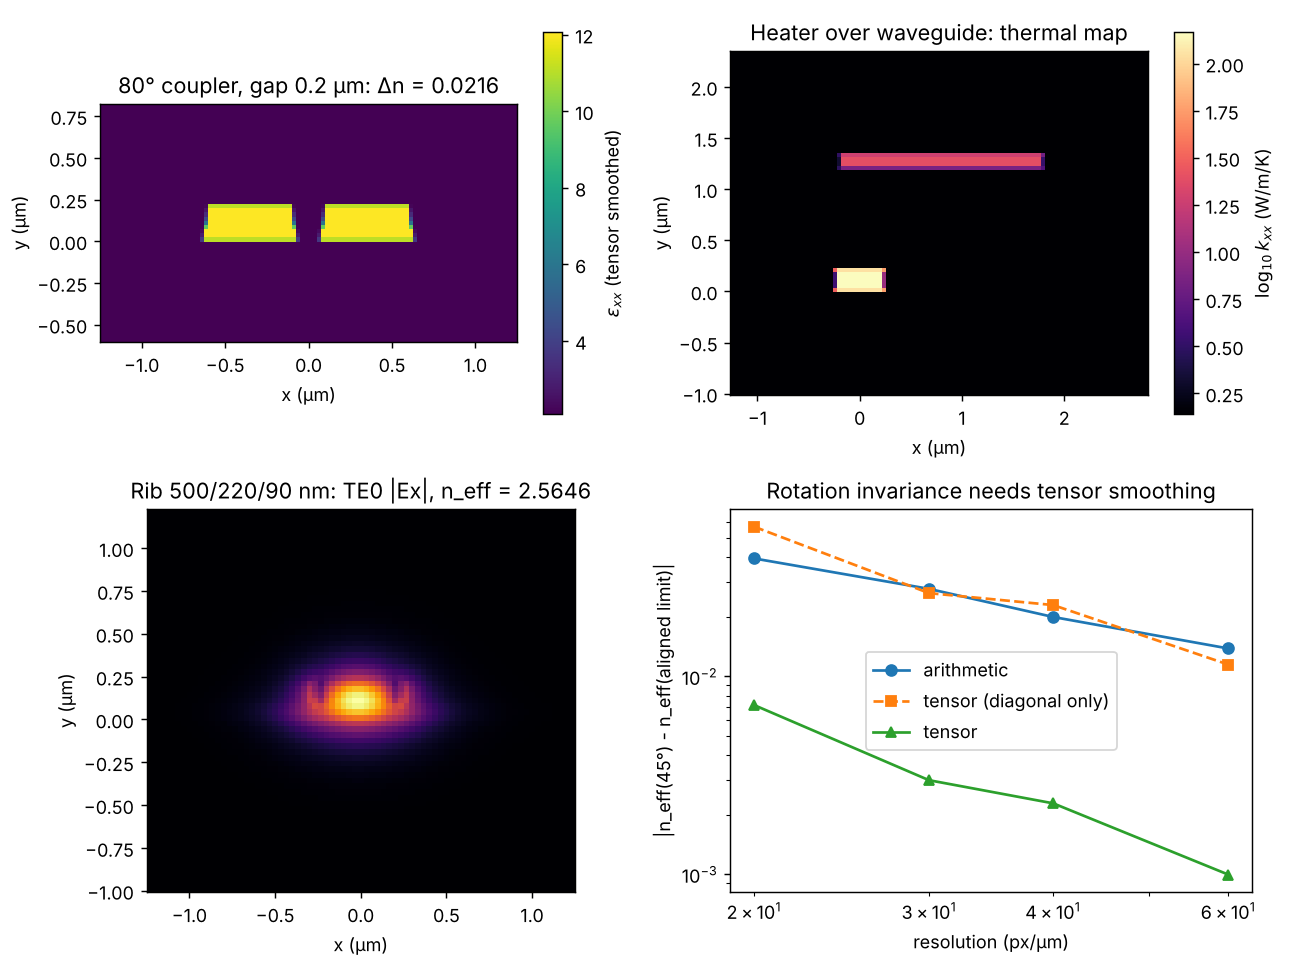
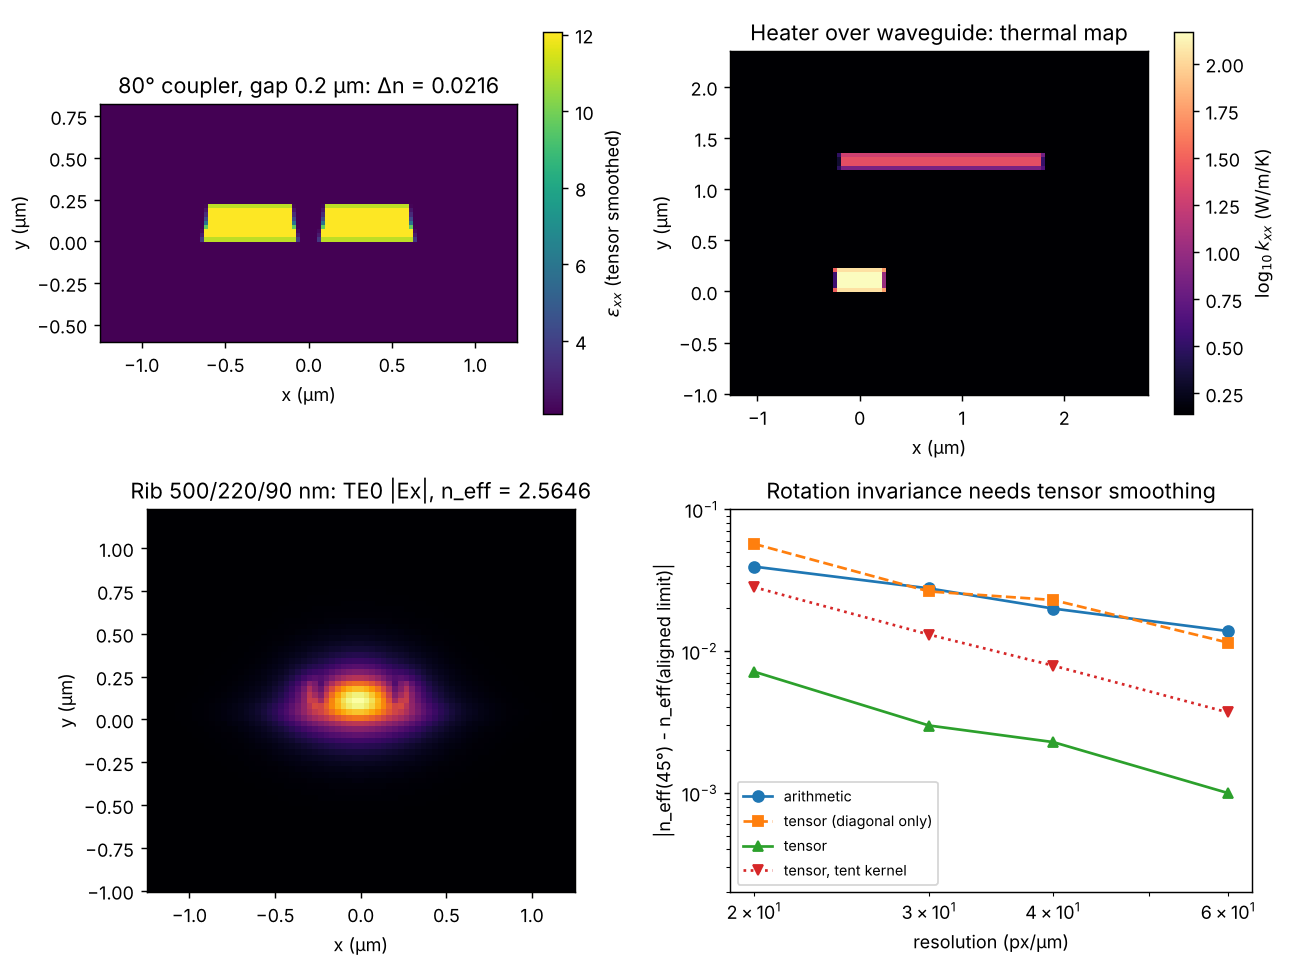
WIP(xsection): docs page, kernel docs, example tent curve, blockwise simplicity check
Claude-Session: https://claude.ai/code/session_01GrsKz23QG2JZsuq6hsmJWw

diff --git a/src/photonix/xsection/modes.py b/src/photonix/xsection/modes.py
@@ -26,24 +26,39 @@ area average, which is exactly the operator of
 ``n_eff``); unlike that solver this one also accepts anisotropic and lossy
 (complex) media.
 
-Evidence (``tests/test_xsection.py``; numbers for a 500 x 200 nm Si/SiO2 core):
+Each sample's average uses the ``kernel`` of :meth:`XSection.rasterize`:
+``"box"`` (the cell centred on the component, default) or ``"tent"`` (the
+bilinear hat reaching the neighbouring samples).
+
+Evidence (``tests/test_xsection.py``; numbers for a 500 x 200 nm Si/SiO2 core
+unless stated):
 
 * rotation invariance -- the continuum ``n_eff`` of a rotated core does not
-  depend on the angle.  At 45 deg and 40 / 80 px/um the tensor error against
-  the axis-aligned Richardson limit is 2.3e-3 / 4.0e-4 (order ~2.5) versus
+  depend on the angle.  At 45 deg and 40 / 80 px/um the tensor (box) error
+  against the axis-aligned Richardson limit 2.36506 is 2.3e-3 / 4.0e-4 versus
   2.0e-2 / 1.0e-2 for arithmetic smoothing (first order);
 * on grids whose lines contain the horizontal faces, rectangle and trapezoid
   converge with observed order ~2 (tensor) and both schemes extrapolate to the
   same limit within their GCI;
+* tent kernel on ordinary (unaligned) grids: :func:`n_eff_convergence` over
+  30/40/60 px/um recovers 2.36506 to 2.2e-4 (axis-aligned) and 2.9e-4
+  (45 deg), inside its 3.5e-3 / 4.2e-3 error bounds; sub-cell shifts of an
+  80-deg, 220 nm trapezoid move ``n_eff`` by about 4e-4 at 40 px/um (box: 5.6e-3);
+* coupler supermode splitting reproduces ``SOI_STRIP_SPLITTING_FIT`` within
+  its ~2 % trust band at 60 px/um (gaps 0.1-0.4 um);
 * the sparse operator equals the matrix-free one used by the adjoint, and the
-  arithmetic path reproduces the legacy solver to rounding.
+  arithmetic/box path reproduces the legacy solver to rounding.
 
-Limitation: second-order *tangential* interface errors remain and depend on
-where a horizontal face cuts its cell (the same is true of the 1-D TE slab
-with cell-averaged ``eps``), so ``n_eff`` still wiggles at the ~5e-3 level at
-40 px/um for sub-cell vertical shifts of a 220 nm core; converge, or align the
-grid with horizontal faces, before quoting digits.  These are convergence
-(level 1) and exact-symmetry checks, not measurements.
+Limitation: with the default box kernel the second-order interface error
+depends on where a horizontal or vertical face cuts its cell (as for the 1-D
+TE slab with cell-averaged ``eps``): ``n_eff`` of a 220 nm core moves by
+~5e-3 at 40 px/um under sub-cell vertical shifts, and refinement sequences on
+ordinary grids are often not monotone, so a Richardson estimate built from
+them is unreliable.  The tent kernel removes that dependence but has a
+larger, systematic error at one resolution (about -6e-3 at 40 px/um for the
+220 nm strip, about 2x-3x the typical box error): use it with
+:func:`n_eff_convergence`.  These are convergence (level 1) and
+exact-symmetry checks, not measurements.
 """
 from __future__ import annotations
 
@@ -327,7 +342,7 @@ def solve_modes(
         horizontal/vertical faces cut their cells (``n_eff`` of a 220 nm core
         moves by ~5e-3 at 40 px/um under sub-cell shifts), so refinement
         sequences are not monotone.  ``"tent"`` makes the error smooth in the
-        grid spacing (~3e-4 spread) at the price of a larger, systematic
+        grid spacing (~4e-4 shift spread) at the price of a larger, systematic
         ``O(h**2)`` bias -- use it for Richardson extrapolation
         (:func:`n_eff_convergence`).
 

diff --git a/examples/xsection_multiphysics.py b/examples/xsection_multiphysics.py
@@ -5,7 +5,9 @@
 * the same kind of geometry object giving a thermal-conductivity map for a heater
   over a waveguide (illustrative bulk property values, not process data);
 * the rotation-invariance check that motivates tensor smoothing: the n_eff of a
-  45-degree-rotated core must equal that of the axis-aligned one.
+  45-degree-rotated core must equal that of the axis-aligned one.  The tent
+  kernel has the larger error at each resolution but converges smoothly, so its
+  Richardson estimate (printed) lands on the aligned-core limit.
 
 Run:  python examples/xsection_multiphysics.py
 Saves: examples/outputs/xsection_multiphysics.png
@@ -67,16 +69,22 @@ def main() -> None:
     limit = (4 * n80 - n40) / 3
     rot = xs.XSection([xs.rect(-0.25, 0.25, -0.1, 0.1, 3.4757).rotated(45.0)], background=1.444)
     ress = [20, 30, 40, 60]
-    for sm, kw, style in (("arithmetic", {}, "o-"), ("tensor", {"offdiagonal": False}, "s--"),
-                          ("tensor", {}, "^-")):
+    for sm, kw, style, label in (("arithmetic", {}, "o-", "arithmetic"),
+                                 ("tensor", {"offdiagonal": False}, "s--", "tensor (diagonal only)"),
+                                 ("tensor", {}, "^-", "tensor"),
+                                 ("tensor", {"kernel": "tent"}, "v:", "tensor, tent kernel")):
         err = [abs(xs.n_eff(rot, resolution=r, margin=1.0, smoothing=sm, **kw) - limit) for r in ress]
-        label = sm + (" (diagonal only)" if kw else "")
         axes[1, 1].loglog(ress, err, style, label=label)
         print(f"45-deg core, {label:26s}: |n_eff - limit| =", " ".join(f"{e:.1e}" for e in err))
+    # The tent kernel converges smoothly, so its Richardson estimate is trustworthy.
+    study = xs.n_eff_convergence(rot, (30, 40, 60), margin=1.0)
+    print(f"45-deg core, tent Richardson (30/40/60): {float(study.extrapolated):.5f} "
+          f"+/- {study.estimated_absolute_error:.1e} (aligned-core limit {limit:.5f})")
     axes[1, 1].set_xlabel("resolution (px/µm)")
     axes[1, 1].set_ylabel("|n_eff(45°) - n_eff(aligned limit)|")
     axes[1, 1].set_title("Rotation invariance needs tensor smoothing")
-    axes[1, 1].legend()
+    axes[1, 1].set_ylim(2e-4, 1e-1)
+    axes[1, 1].legend(loc="lower left", fontsize=8)
     for ax in axes.flat[:3]:
         ax.set_xlabel("x (µm)")
         ax.set_ylabel("y (µm)")

diff --git a/src/photonix/xsection/raster.py b/src/photonix/xsection/raster.py
@@ -48,6 +48,33 @@ weighted by the property jump across each interface.  The smoothed tensor uses
 Kottke's ``tau`` average in the local (normal, tangent, z) frame, which reduces
 for isotropic media to ``P <eps^-1>^-1 + (1 - P) <eps>`` with ``P = n n^T`` and
 is the exact homogenization of a laminate (series across, parallel along).
+
+Averaging kernels
+-----------------
+``kernel="box"`` averages over each cell (the above).  ``kernel="tent"``
+replaces the cell by the bilinear hat function ``K`` centred on the cell centre
+and reaching the neighbouring centres: the same sweep, run on the grid whose
+lines are the cell centres (:func:`_tent_dual_grid`), returns the exact moments
+``int (1, xi, eta, xi*eta) dA`` of every visible region per dual cell (Simpson's
+rule is exact for the cubic integrands between the points where an edge meets
+the column lines), and the hats are combinations of those moments.  The normal
+is the direction of ``int K grad(q) dA = -int q grad(K) dA``, again exact.
+
+Why a tent: the three-point second difference is exactly the tent average of
+the second derivative, ``(u(y+h) - 2u(y) + u(y-h)) / h**2 = <u''>_K``.  If
+``eps`` is averaged with the same kernel, the local error of the discrete
+Helmholtz operator at an interface has no ``O(1)`` term and its ``O(h)`` term
+(the first moment of ``eps`` inside ``K``) sums to zero over neighbouring
+samples, because ``K`` reproduces linear functions.  What remains is the
+smooth ``O(h**2)`` error of the stencil itself, independent of where the
+interface cuts its cell.  With the box kernel an ``O(h**2)`` term that
+oscillates with that position survives (zero-sum but not zero-first-moment
+weights); averaged over positions it happens to cancel part of the stencil
+error, so the box is usually *more* accurate at a single resolution and the
+tent is the one that converges monotonically.  This is our analysis of the
+standard scheme (the hat is the lumped-mass weight of linear finite elements),
+verified numerically in ``tests/test_xsection.py``; it is not a published
+recipe.
 """
 from __future__ import annotations
 

diff --git a/tests/test_xsection.py b/tests/test_xsection.py
@@ -529,19 +529,21 @@ def test_lossy_heater_gives_decaying_complex_index():
     assert 2.3 < m_near.neff0 < 2.6 and m_near.te_fraction[0] > 0.9
 
 
-@pytest.mark.parametrize("gap", [0.1, 0.2, 0.3, 0.4])
-def test_coupler_splitting_reproduces_soi_fit(gap):
+@pytest.mark.parametrize(("gap", "kernel"), [(0.1, "box"), (0.2, "box"), (0.3, "box"), (0.4, "box"),
+                                             (0.2, "tent")])
+def test_coupler_splitting_reproduces_soi_fit(gap, kernel):
     """Even/odd TE splitting of library.coupler vs SOI_STRIP_SPLITTING_FIT.
 
     The fit declares a 1.3 % residual against its 80 px/um legacy solves plus a
     +/-1.3 % resolution spread of those solves, so it is trusted to ~2 % of the
     continuum.  Tensor smoothing at 60 px/um lands within 1.31 % at every gap
-    (gap 0.2 is the worst); the legacy arithmetic discretization at the fit's own
-    80 px/um, solved through this geometry path, lands within 1.26 % (design study).
+    (gap 0.2 is the worst; 1.67 % with the tent kernel); the legacy arithmetic
+    discretization at the fit's own 80 px/um, solved through this geometry path,
+    lands within 1.26 % (design study).
     """
     from photonix.components.couplers import supermode_splitting
 
-    m = solve_modes(coupler(0.5, gap, 0.22), resolution=60, margin=1.0, num_modes=3)
+    m = solve_modes(coupler(0.5, gap, 0.22), resolution=60, margin=1.0, num_modes=3, kernel=kernel)
     te = np.flatnonzero(m.te_fraction > 0.5)[:2]
     dn = float(np.real(m.n_eff[te[0]] - m.n_eff[te[1]]))
     assert dn == pytest.approx(float(supermode_splitting(gap, 1.55)), rel=0.02)

diff --git a/src/photonix/xsection/shapes.py b/src/photonix/xsection/shapes.py
@@ -124,13 +124,16 @@ def _check_simple(p: np.ndarray) -> None:
     if n <= 3:
         return
     seg = np.stack([p, np.roll(p, -1, axis=0)], axis=1)  # (n, 2, 2)
-    hit = _segments_intersect(seg, seg)
-    i, j = np.triu_indices(n, k=2)
-    adjacent = (j - i == 1) | ((i == 0) & (j == n - 1))
-    bad = hit[i, j] & ~adjacent
-    if np.any(bad):
-        k = int(np.argmax(bad))
-        raise ValueError(f"polygon is not simple: edges {int(i[k])} and {int(j[k])} intersect")
+    block = 512  # bounds the (block, n) work arrays for polygons with many vertices
+    for i0 in range(0, n, block):
+        hit = _segments_intersect(seg[i0:i0 + block], seg)
+        i = np.arange(i0, min(n, i0 + block))[:, None]
+        j = np.arange(n)[None, :]
+        adjacent = (np.abs(j - i) <= 1) | ((i == 0) & (j == n - 1)) | ((j == 0) & (i == n - 1))
+        bad = hit & ~adjacent & (j > i)
+        if np.any(bad):
+            a, b = np.unravel_index(int(np.argmax(bad)), bad.shape)
+            raise ValueError(f"polygon is not simple: edges {int(i0 + a)} and {int(b)} intersect")
 
 
 def _check_material(material: Any) -> None:

diff --git a/docs/xsection.md b/docs/xsection.md
@@ -1,0 +1,128 @@
+# Polygonal cross-sections (`photonix.xsection`)
+
+`photonix.xsection` describes a waveguide cross-section once -- as painted
+polygons of materials -- and turns it into whatever a solver needs:
+permittivity for the FDE mode solvers, conductivities and capacities for heat or
+conduction solvers, masks for heaters, contacts and doping. Using one geometry
+object for all of them keeps the optical and thermal models of a device from
+silently diverging.
+
+It removes three limits of the rectangle-only builders
+(`photonix.em.rectangular_waveguide`, `photonix.pdk.LayerStack.cross_section`):
+any number of features per layer (coupler gaps, neighbouring waveguides),
+lateral offsets (heaters, thermal crosstalk), and slanted sidewalls, undercuts,
+ribs, disks or arbitrary simple polygons.
+
+```python
+import photonix.xsection as xs
+
+cpl = xs.coupler(0.5, 0.2, 0.22, sidewall_deg=80.0, box=1.444)   # two trapezoidal cores
+grid = cpl.uniform_grid(resolution=40)                           # cell-centred, like em.rectangular_waveguide
+eps = cpl.eps(grid, wl=1.55, smoothing="tensor")                 # (3, ny, nx) Kottke-smoothed diagonal
+modes = xs.solve_modes(cpl, num_modes=3)                         # full-vector, tensor smoothing
+study = xs.n_eff_convergence(xs.strip(0.5, 0.22), (20, 30, 40))  # Richardson + GCI
+cs = xs.strip(0.5, 0.22).to_em(resolution=40)                    # drop-in em.CrossSection
+```
+
+## API
+
+| Object | Purpose |
+|---|---|
+| `Region`, `polygon`, `rect`, `band`, `trapezoid`, `rib`, `disk` | Simple polygons (µm, `x` lateral, `y` vertical) with a material, a painter's `order`, `tags` and optional per-region `properties` (e.g. `k_th`). `trapezoid(..., sidewall_deg, reference="top"/"middle"/"bottom")` sets the etch angle and the plane at which `width` is measured. `band` is a laterally unbounded layer. |
+| `TensorGrid`, `uniform_grid`, `graded_grid` | Cell-edge grids; `uniform_grid` reproduces the `rectangular_waveguide` / `LayerStack` construction exactly; `graded_grid` refines boxes with a bounded growth ratio (for heat/conduction solvers; the FDE solvers need uniform grids). |
+| `XSection(regions, background)` | The cross-section. `rasterize(grid, kernel)` returns a `Coverage`; `eps`, `coefficient`, `mask`, `normals`, `fractions`, `to_em` are wrappers. |
+| `Coverage` | Exact visible fractions per sample, face coverages (box kernel) and kernel-weighted indicator gradients. Evaluate many wavelengths / temperatures / quantities on one rasterization. |
+| `strip`, `rib_waveguide`, `coupler`, `heater_over_waveguide` | Library cross-sections (SOI defaults `n_Si = 3.4757`, `n_SiO2 = 1.444`). |
+| `from_layer_stack(stack, features)` | Adapter from `photonix.pdk.LayerStack`: unpatterned levels become bands, each `(layer, x_center, width[, sidewall_deg])` feature a trapezoid, painted in stack order. Accepts the `{layer: width}` mapping of `LayerStack.cross_section`. |
+| `solve_modes`, `n_eff`, `yee_permittivity` | Full-vector Yee-grid modes with per-component (staggered) tensor smoothing including `eps_xy`; anisotropic and lossy media; `n_eff` is differentiable through the geometry under JAX. |
+| `n_eff_convergence` | Grid-refinement study (`photonix.em.estimate_convergence`) of `n_eff`, by default with the tent kernel. |
+| `resolve_index`, `resolve_property` | Duck-typed materials: a number, a callable `n(wl)`, any object with `index(wl[, temperature])`, or a 3-tuple `(n_x, n_y, n_z)` for diagonal anisotropy. No material database is imported. |
+
+## Algorithms
+
+**Exact rasterization.** A trapezoidal sweep cuts the window into horizontal
+slabs at grid lines, vertices and edge crossings; winding numbers and the
+painter's rank decide which region owns each trapezoid; the integral of each
+owner-changing edge over each column is exact once the edge is split at the
+column lines. Overlapping and abutting shapes need no polygon booleans, and the
+result equals the exact rectangle rasterizers to rounding. A per-cell product
+rule `f_i * prod(1 - f_j)` (sometimes proposed) is wrong wherever two abutting
+shapes share a cut cell, so it is not used. Topology is decided in NumPy; the
+arithmetic is replayed in `jax.numpy` when vertices are JAX values, with
+tie-free derivative forms where an edge end touches a grid line.
+
+**Smoothing.** `smoothing="arithmetic"` is the area average (legacy
+convention). `smoothing="tensor"` is Kottke's anisotropic average
+(Farjadpour et al., Opt. Lett. 31, 2972 (2006); Kottke, Farjadpour & Johnson,
+Phys. Rev. E 77, 036611 (2008)) with the normal taken from the exactly
+integrated gradient of the smoothed property; for isotropic media it is
+`P <eps^-1>^-1 + (1 - P) <eps>`, `P = n n^T`. In the mode solver each field
+component gets its own average on its Yee position and slanted interfaces add a
+symmetric `eps_xy` coupling (essential: without it a 45-degree core converges at
+first order).
+
+**Kernels.** `kernel="box"` averages each sample over its cell.
+`kernel="tent"` uses the bilinear hat centred on the sample and reaching its
+neighbours, computed exactly from per-cell moments `int (1, xi, eta, xi*eta) dA`
+of the same sweep. The three-point second difference equals the tent average
+of the second derivative, so a tent-averaged `eps` leaves no interface error
+that depends on where a face cuts its cell; only the smooth `O(h^2)` stencil
+error remains. The box kernel keeps an `O(h^2)` term that oscillates with that
+position. This is our analysis of the standard scheme, checked numerically
+below, not a published recipe.
+
+## Choosing smoothing and kernel
+
+| Goal | Use |
+|---|---|
+| Reproduce `em.rectangular_waveguide` / `solve_modes_fullvector` exactly | `smoothing="arithmetic"`, `kernel="box"` (`to_em`) |
+| Best single-resolution `n_eff` | `smoothing="tensor"`, `kernel="box"` (default) |
+| A converged `n_eff` with an error bar | `n_eff_convergence(..., kernel="tent")` (default) |
+| Thermal / electrical coefficients | `coefficient(grid, "k_th", T, average="tensor")` (laminate: series across, parallel along) or `"harmonic"` / `"arithmetic"` |
+
+## Validation evidence (`tests/test_xsection.py`)
+
+| Check | Evidence | Result |
+|---|---|---|
+| Area conservation | shoelace area, random non-convex polygons, rotated rectangles, slivers below one cell, 200-gon disk | to 1e-13 absolute |
+| Per-cell areas, painter's order | independent Sutherland-Hodgman clipping per cell; visible area = area minus overlap; graded grid | to 1e-14 |
+| Tent moments | per-dual-cell clipping + Green's-theorem polygon moments, graded grid, painted regions; reproduction of `int (1, x, y, xy) dA` (the box kernel fails the first moments) | to 1e-13 |
+| Rectangle regression | `em.rectangular_waveguide(...).eps` at 20/33/40 px/µm; `LayerStack.cross_section` for a rib on the demo PDK (also through `from_layer_stack`) | to 1e-13 relative |
+| Trapezoid at 90 deg | identical polygon and raster to the rectangle | exact |
+| Laminate / normals | vertical interface: harmonic / arithmetic means (box: isotropic and anisotropic; tent: isotropic); slanted half-plane normals (both kernels) | to 1e-12 |
+| Legacy solver | arithmetic path vs `em.solve_modes_fullvector` | `n_eff` to 1e-10 |
+| Rotation invariance | 45-deg core vs axis-aligned Richardson limit 2.36506 (aligned grids, 40/80 px/µm) | tensor 2.3e-3 at 40 px/µm vs arithmetic 2.0e-2 |
+| Convergence order | 80-deg trapezoid on face-aligned grids (20-60 px/µm) | tensor: observed order ~2 and a lower GCI than arithmetic; both reach a common limit |
+| Tent extrapolation | `n_eff_convergence` on unaligned grids (30/40/60), 0- and 45-deg cores | within 2.2e-4 / 2.9e-4 of 2.36506; bounds 3.5e-3 / 4.2e-3 |
+| Translation invariance (sub-cell shifts) | 80-deg, 220 nm trapezoid at 40 px/µm, vertical/lateral/diagonal shifts | tent: 4e-4 (GCI 7.5e-3); box: 5.6e-3 (vertical); box lateral shifts stay within its GCI |
+| Physical ordering | rib > strip; shallower sidewall at fixed top width > vertical; fixed bottom width < vertical | ordering holds |
+| Coupler splitting | even/odd TE splitting vs `SOI_STRIP_SPLITTING_FIT` (gaps 0.1-0.4 µm, 60 px/µm) | within 1.31 % (box), 1.67 % (tent, gap 0.2); fit trusted to ~2 % |
+| Symmetry | x <-> y transposition maps TE0 of `(n_x, n_y, n_z)` onto TM0 of `(n_y, n_x, n_z)` | to 1e-9 |
+| Loss | metal heater: decaying complex index, larger when closer | `Im n_eff < 0`, ordering holds |
+| Gradients (JAX) | per-sample `d eps / d width` and `d n_eff / d width` vs central differences, including corners exactly on grid lines / tent nodes | per sample 1e-5 (box) / 1e-7 (tent); `n_eff` 5e-6 relative |
+
+Evidence levels (see [`VALIDATION.md`](VALIDATION.md)): exact identities and
+laminate formulas are analytic (level 2); the mode results are convergence and
+exact-symmetry checks (level 1); the coupler comparison is against an earlier
+photonix calculation with the same discretization family, not an external
+benchmark. Nothing here is calibrated to measurements.
+
+## Limits
+
+* The FDE mode solvers need uniform grids; `graded_grid` serves other solvers.
+* `smoothing="tensor"` assumes dielectrics: averaging `1/eps` across a metal
+  (`Re eps < 0`) interface is ill-posed -- use `"arithmetic"` with metals.
+* With the default box kernel the `n_eff` error depends on where faces cut
+  their cells (~5e-3 at 40 px/µm for a 220 nm core) and refinement sequences on
+  ordinary grids are often not monotone; the tent kernel fixes that but has a
+  ~2-3x larger systematic error at one resolution. Converge before quoting
+  digits.
+* `jax.grad` is supported through the geometry, `jax.jit` is not (the sweep
+  topology is computed from concrete coordinates). The differentiable `n_eff`
+  handles lossless (real) permittivity only.
+* Polygons must be simple; holes are made by painting (a higher-order region of
+  the surrounding material). Bands are polygons of half-width 1e4 µm, so grids
+  must lie inside `|x| < 1e4` µm.
+* Material and property values are whatever the caller passes; the library
+  defaults are the photonix SOI constants, and the thermal values in the
+  example are illustrative bulk numbers, not process data.
